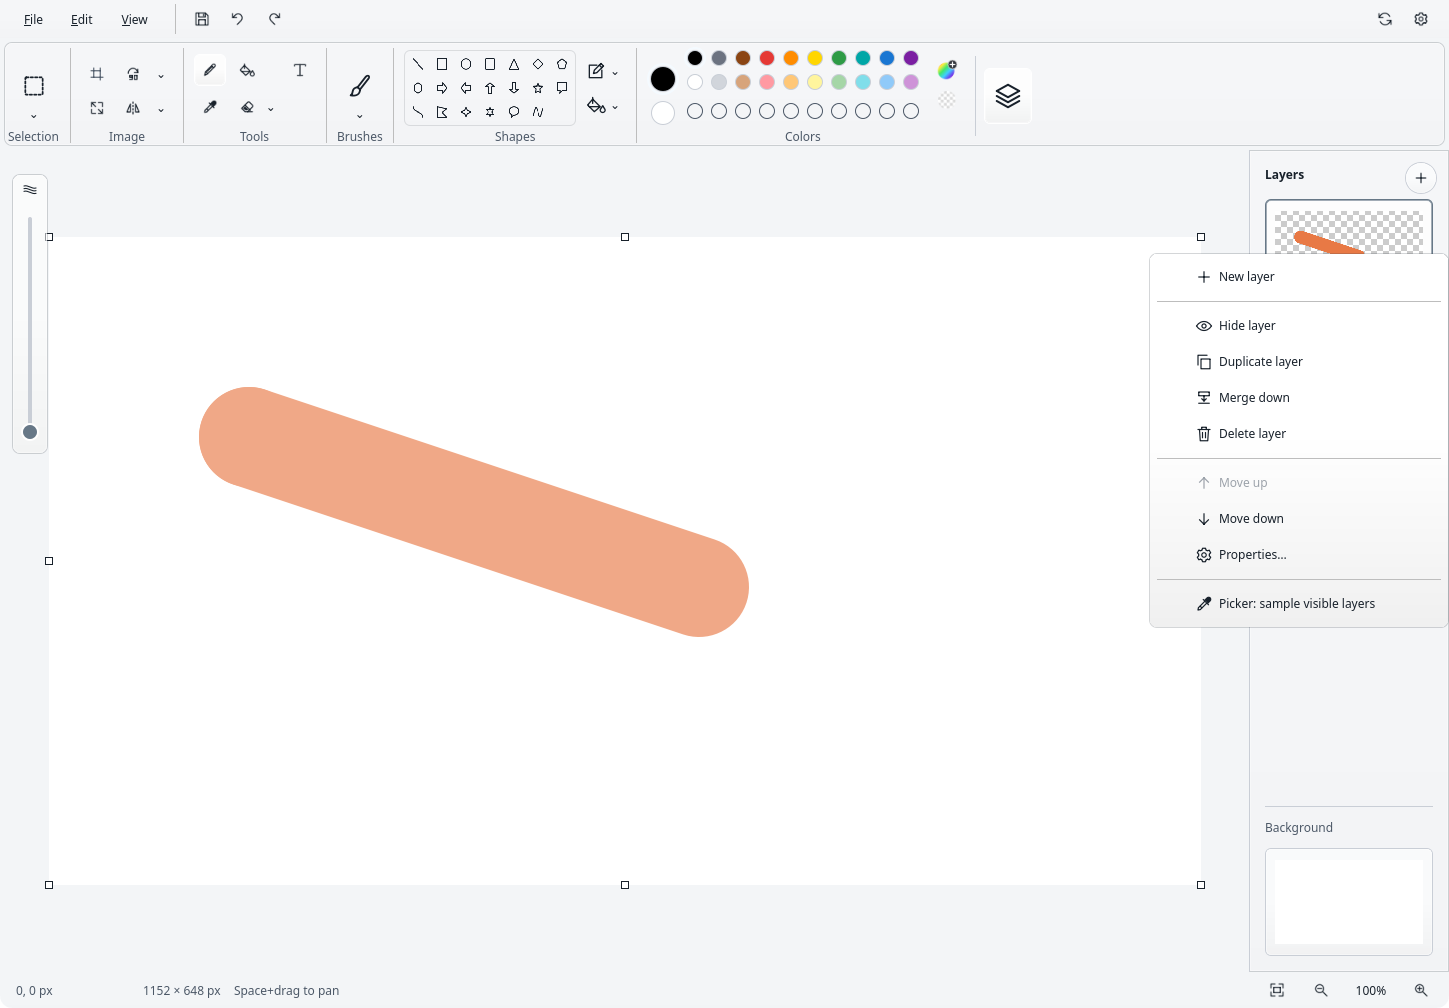
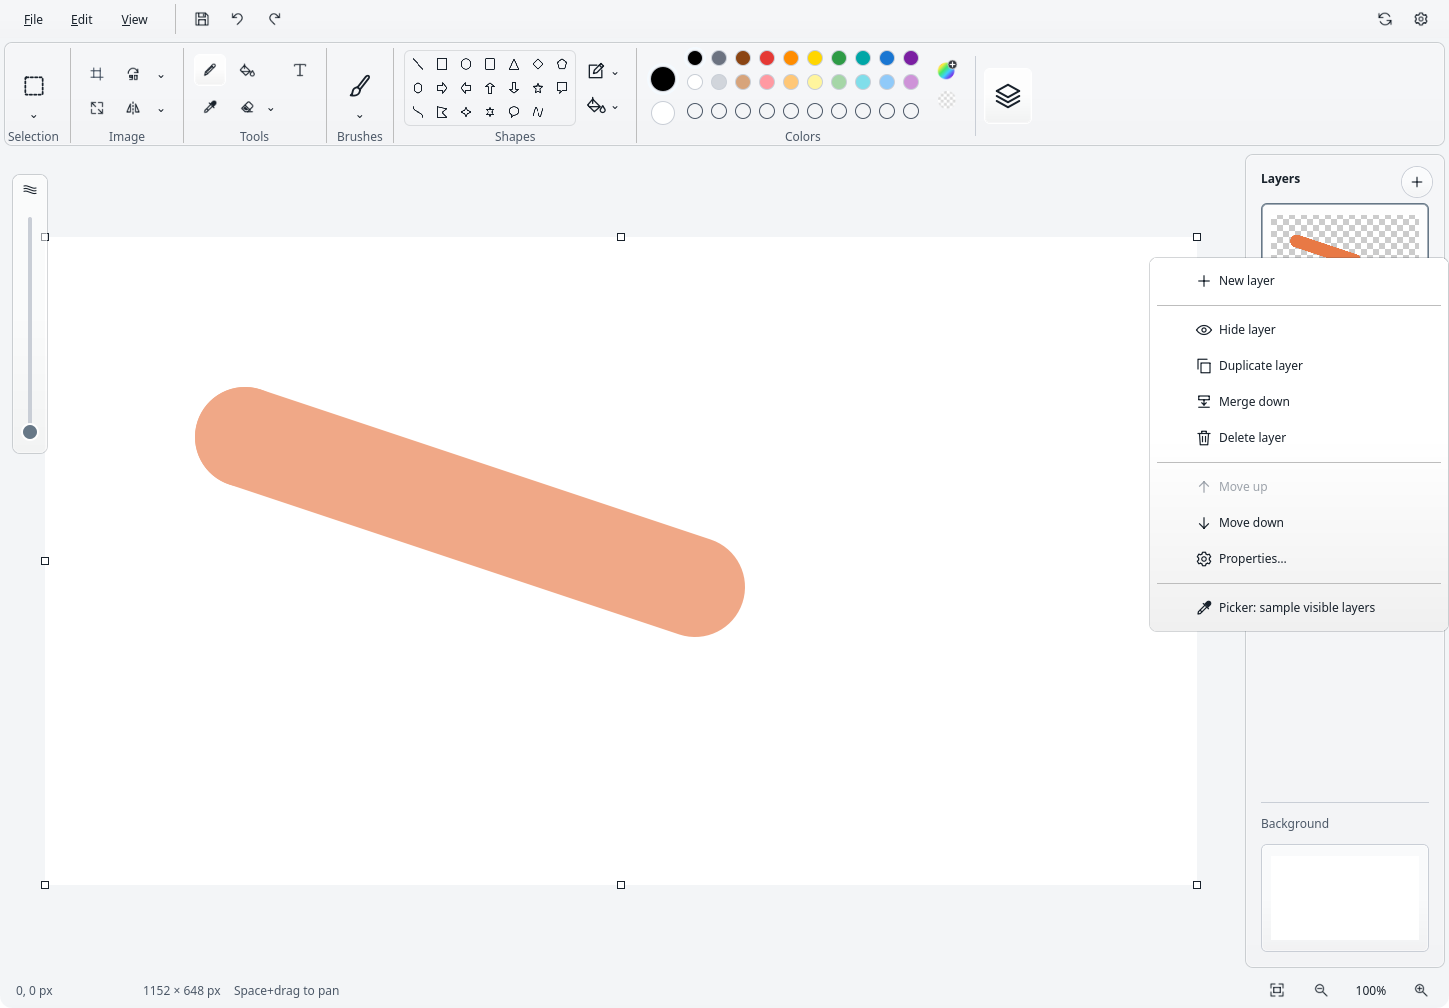
Round and inset the floating layers panel

Changed region(s): [[0.8075, 0.1538, 1.0, 0.9534], [0.8696, 0.7996, 0.9317, 0.8304], [0.4969, 0.5843, 0.528, 0.6151]]

diff --git a/qml/Main.qml b/qml/Main.qml
@@ -1470,6 +1470,7 @@ ApplicationWindow {
         anchors.right: parent.right
         anchors.top: parent.top
         anchors.bottom: parent.bottom
+        anchors.margins: 4
         width: 200
         z: 5
     }
@@ -1477,7 +1478,7 @@ ApplicationWindow {
         id: canvas
         objectName: "canvas"
         anchors.fill: parent
-        anchors.rightMargin: window.layersVisible ? layersPanel.width : 0
+        anchors.rightMargin: window.layersVisible ? layersPanel.width + 8 : 0
         editor: window.editorController
         enabled: !window.editorController.loading || window.editorController.filling
         focus: true

diff --git a/qml/LayersPanel.qml b/qml/LayersPanel.qml
@@ -14,7 +14,7 @@ GlassSurface {
     property int dropIndex: -1
     property point dragPoint
     color: Theme.panel
-    radius: 0
+    radius: Theme.surfaceRadius
     raisedSurface: false
     backdropLayers: hostWindow ? [hostWindow.background, hostWindow.canvasController] : []
     function cancelDrag() {
@@ -72,11 +72,6 @@ GlassSurface {
             if (mouse.button === Qt.RightButton)
                 panel.openMenu(panel.editor.activeLayer, Qt.point(mouse.x, mouse.y));
         }
-    }
-    Rectangle {
-        width: 1
-        height: parent.height
-        color: Theme.divider
     }
     Label {
         id: heading

diff --git a/docs/plans/0058-layers.md b/docs/plans/0058-layers.md
@@ -144,3 +144,14 @@ captures were visually inspected and refreshed. The final workflow also passed X
 150% and 200%, exercising the glass shader path; physical compositor validation
 remains outside this development evidence.
 Protected CI/review remains the next unfinished step; no release or merge.
+
+## Rounded floating rail
+
+Acceptance: match the main toolbar's rounded glass surface and outer inset,
+remove the flush square divider, preserve canvas spacing and existing layer
+interactions at minimum window size. Implemented with 8-unit corners, a 4-unit
+outer inset and a separate canvas gap. Build, format-check, zero-warning QML lint,
+repository checks and diff hygiene pass. The existing layers workflow passes
+both offscreen/software and X11/Mesa OpenGL; minimum-size dark capture was
+visually inspected and the light/dark/context screenshots refreshed.
+Next unfinished step remains protected CI/review; no release or merge.

diff --git a/docs/MENUS.md b/docs/MENUS.md
@@ -457,7 +457,7 @@ shows ordinary layers above a divider and a fixed Background tile. Hover/focus
 reveals each tile's top-right eye; a cross indicates hidden content. Drag ordinary tiles to
 reorder without moving the background. There are no persistent text action buttons
 or property fields in the rail. A circular + button in the header adds a layer.
-The larger ribbon button has its own separator; the rail follows glass settings.
+The larger ribbon button has its own separator; the rail follows glass settings with rounded corners and an inset matching the toolbar.
 
 Right-click a tile or blank rail for icon-labelled New layer, Show/Hide, Duplicate, Merge down,
 Delete, Move up/down, Properties and Picker: sample visible layers. Ctrl+Shift+N

diff --git a/docs/assets/README.md b/docs/assets/README.md
@@ -104,7 +104,7 @@ build/release/openpaint_shell_tests websiteReleasePreview
 ## Layer feature development evidence
 
 `layers-light-1280.png` and `layers-dark-1024.png` were captured on 2026-10-21
-from the plan 0058 ribbon/add-control/glass polish revision using `openpaint_shell_tests layersWorkflow`,
+from the plan 0058 rounded floating-rail revision using `openpaint_shell_tests layersWorkflow`,
 Qt 6.12.0 offscreen/software, at 1280×800 and 1024×640. They show a generated
 orange stroke at 65% layer opacity, an empty transparent layer, and the pinned
 white background below its divider. The right rail uses top-right hover/focus eye controls, a circular add button

diff --git a/docs/DESIGN.md b/docs/DESIGN.md
@@ -337,6 +337,8 @@ The Select menu includes By color with an original magic-wand icon. Each click s
 The Layers ribbon control has a separate divider and a 48×56 target with a 30-unit
 icon. It and View → Layers toggle a 200-unit vertical thumbnail
 rail that reserves space on the right of the canvas at every supported width.
+Like the main toolbar, its glass surface has 8-unit rounded corners and a 4-unit
+outer inset. A 4-unit gap separates it from the canvas.
 It starts hidden. First opening on a flat document creates one undoable transparent
 layer above the existing raster; subsequent toggles do not create more layers.
 
